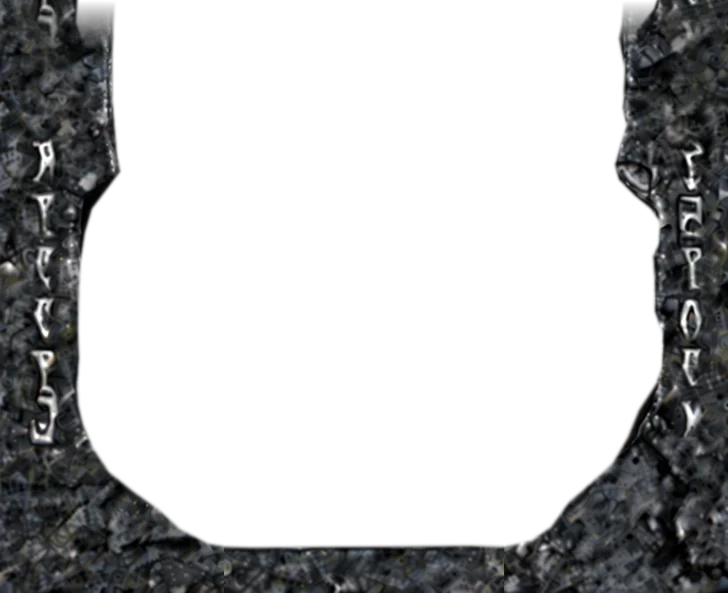
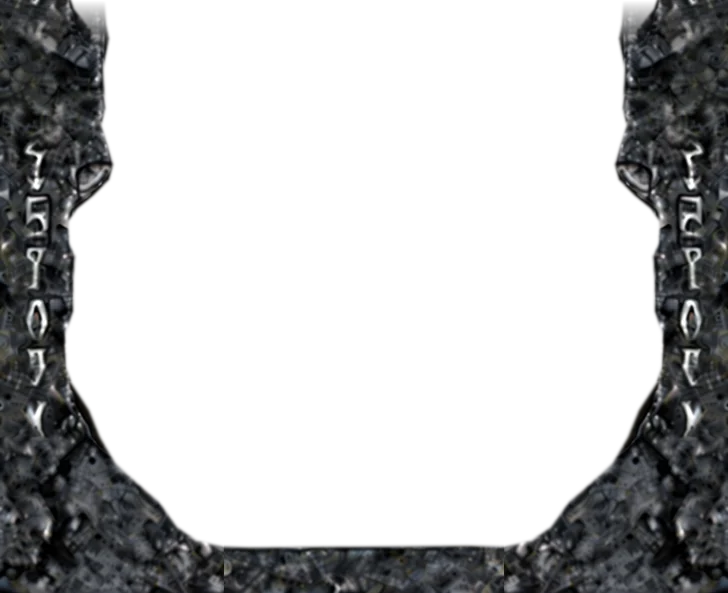
Mirror the right jumbotron stonework onto the left

Changed region(s): [[0.0, 0.0, 0.3324, 1.0]]

diff --git a/index.html b/index.html
@@ -8,7 +8,7 @@
   <title>tes3np | Official Download</title>
   <link rel="icon" href="./favicon.ico" sizes="16x16 32x32 48x48">
   <link rel="stylesheet" href="https://fonts.googleapis.com/css2?family=Cormorant+Garamond:wght@700&amp;family=Source+Sans+3:wght@400;700&amp;display=swap">
-  <link rel="stylesheet" href="./styles.css?v=20">
+  <link rel="stylesheet" href="./styles.css?v=21">
 </head>
 <body>
   <main id="top">

diff --git a/styles.css b/styles.css
@@ -30,7 +30,7 @@ body {
   border-style: solid;
   border-width: 0 var(--frame-width) var(--frame-bottom);
   border-color: transparent;
-  border-image: url("./assets/page-frame.webp?v=2") 0 224 212 224 round;
+  border-image: url("./assets/page-frame.webp?v=3") 0 224 212 224 round;
   pointer-events: none;
 }
 .jumbotron-frame::after {
